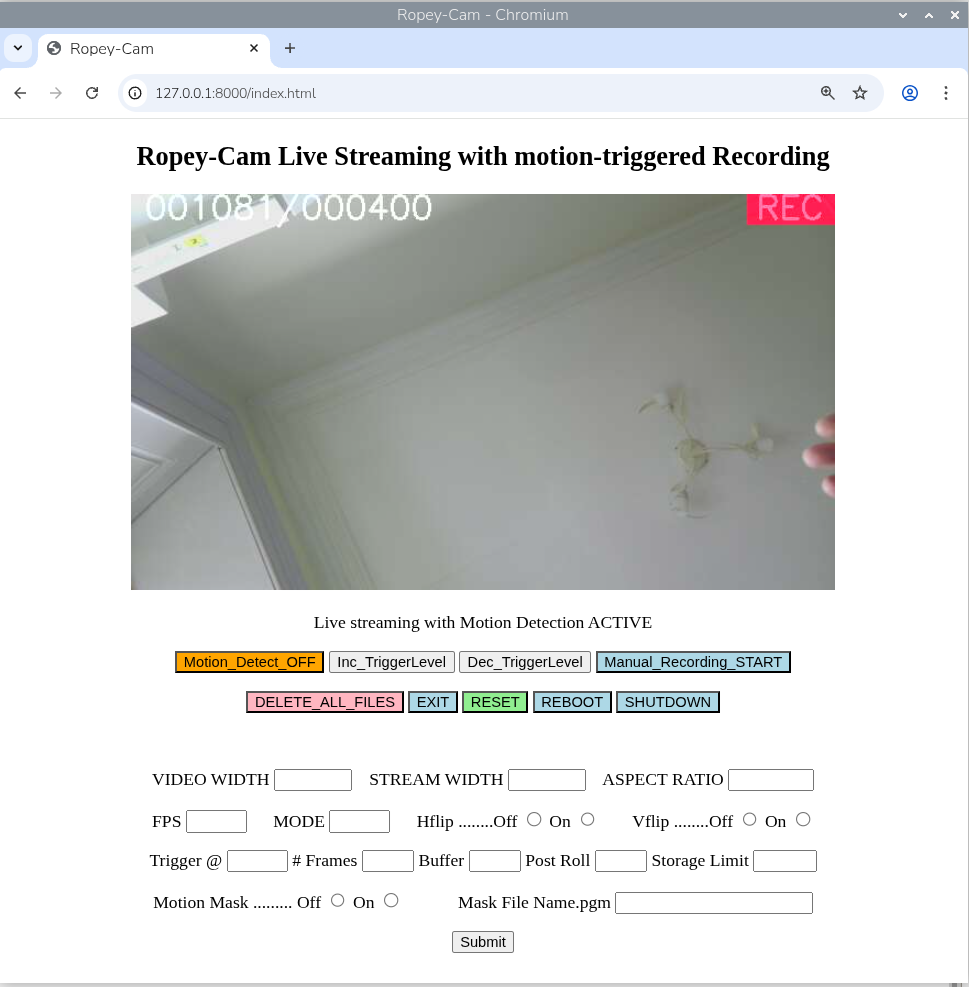
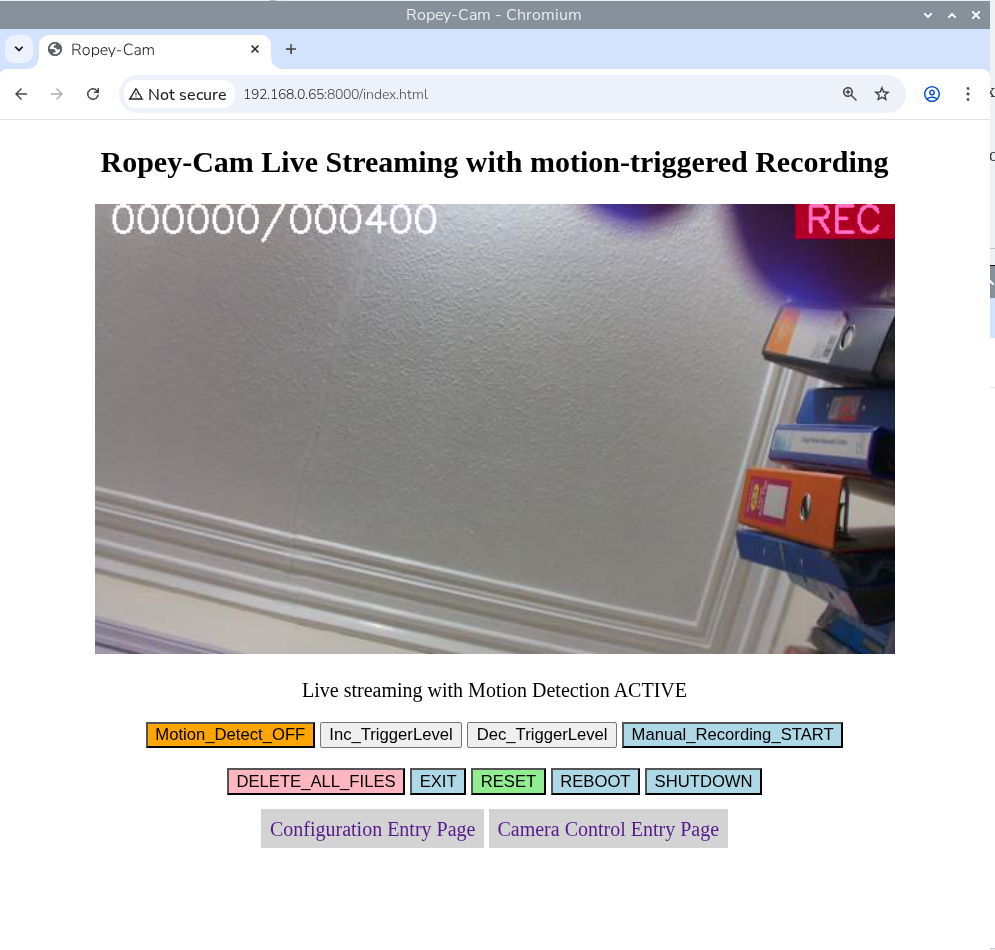
Update README and docs to reflect new controls page and changed 'home' page

diff --git a/docs/general_notes.md b/docs/general_notes.md
@@ -1,7 +1,7 @@
 ## General notes to help modify the application for specific uses.
 
 ### Compatibility with Raspberry Pi models and cameras.
-With the exception of the original single core CPU boards, i.e.the Raspberry Pi Model A/B and the Pi Zero, all models from Zero 2W through Pi 2 to Pi 5 have sufficient resources to run Ropey-Cam (R-C). Best results at the highest resolutions and framerates will need Pi4 and above.
+With the exception of the original single core CPU boards, i.e.the Raspberry Pi Model A/B and the Pi Zero, (which struggle with framerate), all models from Zero 2W through Pi 2 to Pi 5 have sufficient resources to run Ropey-Cam (R-C). Best results at the highest resolutions and framerates will be achieved with a Pi4 and above. Although users are encouraged to experiment with the settings to optimise for their particular hardware and use-case.
 
 As R-C is based on Picamera2/libcamera it should be compatible with all Raspberry Pi camera modules V1, V2, V3, HQ and GS, any third party versions of these, and any colour camera modules that have supported drivers in the Raspberry Pi kernel eg IMX290 IMX462. 
 
@@ -14,14 +14,19 @@ Full HD 1920x1080 at 30 fps for the recorded video is best with Pi 4 and above, 
  
 In 4:3 (1.333) aspect ratio the max recommended VIDEO WIDTH is 1600 pixels giving a 1600x1200 frame size.
 
+As the size of the streaming video frames also controls the size of the frames which go through the motion detection thread it is best to keep them at smaller sizes to limit the computational load. Again experimentation encouraged. One installation in use by the author records in 1920 pixel wide 20:9 format at 25 fps, with a 1152 wide motion detection / streaming frame size with no problems on a Pi 4. 
 
-## Description of configuration entry inputs
-----
+
+## Description of configuration entry page
  
-![Extract of screenshot showing configuration input section](config_entry_panel.png)
+![Screenshot showing configuration input section](config_entry_panel.png)
 
 ---
-When first run R-C will read in the configuration file ropey.ini and apply the values to the relevant application constants and variables. These values can be updated using the input fields, either with individual entries or in any combination followed by a press of the Submit button. 
+When first run R-C will read in the configuration file 'ropey.ini' and apply stored values to the relevant application constants and variables. These values can be updated using the input fields on this page, either with individual entries or in any combination followed by a press of the 
+> 'Submit to apply changes to internal config file' button. 
+ 
+At this point the in-memory config file has been updated, but the new configuration has not been applied. To apply the configuration changes R-C should be shutdown and restarted, which will force the loading and application of the new configuration.  This can be done with either the EXIT or REBOOT buttons, which have the same effect as those on the 'home' page.
+  
 ### Configuration Fields
 
 #### VIDEO WIDTH
@@ -38,7 +43,7 @@ those shown when queried with  `rpicam-hello --list-cameras`
 
 Typically MODE 0 will give a cropped and binned low resolution mode.
 
-MODE 1 will give:-
+The default MODE 1 will give:-
 
  a full-frame 2x2 binned 16:9 mode on HQ and V3 camera modules 
  
@@ -70,14 +75,38 @@ The default is 80% (0.8) A value closer to 1.0 may be useful with lower capacity
 
 ### Motion Mask
 
-To avoid triggering by the motion of irrelevant background portions of the scene, e.g branches blowing in the wind, a blanking motion mask can be applied or disabled with these boolean Off/On radio buttons. A description of the function of this mask and guidelines on how to generate one are in the [Motion Mask Generation](#generation) section below.
+To avoid triggering by the motion of irrelevant background portions of the scene, e.g branches blowing in the wind, a blanking motion mask can be applied with these boolean Off/On radio buttons. A description of the function of this mask and guidelines on how to generate one are in the [Motion Mask Generation](#generation) section below.
 
 ### Mask_File_Name.pgm  
 Enter the file name of the motion mask to be applied in this field. This should be the full file name with its associated .pgm file type, and it should be stored in the main Ropey-Cam directory. A blank `default_mask.pgm` file is supplied that matches the standard default stream size. If you choose to use a different stream size it is essential to generate a new mask that matches the stream array size.
 
     
 ## Configuration storage
-Configuration changes are stored internally after being submitted or entered, but are not applied 'on-the-fly'. The changes are written to the configuration ropey.ini file on EXIT/SHUTDOWN or REBOOT, and will take effect when the file is read on the next startup.
+It's worth repeating that the configuration changes are stored internally after being submitted or entered, but are not applied 'on-the-fly'. The changes are written to the configuration ropey.ini file on EXIT/SHUTDOWN or REBOOT, and will take effect when the file is read on the next startup.
+
+## Controls Entry Page
+
+![Screenshot showing configuration input section](controls_entry_page.png)
+
+This page allows changes to made to the camera controls, rather than the configuration, and these can be applied 'on-the-fly'. The changes are also stored in the configuration file, to persist and be re-applied on next startup.
+
+See the [Picamera2 Manual](https://pip.raspberrypi.com/documents/RP-008156-DS) for descriptions of the controls, their options and effects.
+
+### The controls can be divided into four sections.
+The first being the straightforward, Brightness, Contrast and Saturation fields which are pre-populated with the current control values.
+
+The second section has the controls influencing the camera's AutoExposure (Ae) Image Processing Algorithm.
+
+The third section has the Auto White Balance  (Awb) controls.  If Awb is disabled then Red and Blue Colour Gains can be manually applied here.
+
+And finally the Auto Focus (Af) group. The Af settings will only apply if the camera module being used supports Af, eg the official RPi V3 IMX708.
+
+If Af is supported, and depending on which AfMode (Manual / Auto / Continuous) is selected, then extra controls will be available in the 'home' page screen to manually control the focus, in steps of 0.5 dioptre, or to trigger an autofocus cycle.
+
+
+
+## Timestamps
+The recorded video files have a date and time stamp embedded in the frame data. The time includes a millisecond record and is useful for checking for dropped frames.  By single-stepping through the recorded files the millisecond counter should advance by ~ 1000 / FRAMES_PER_SECOND each frame. A jump between frames of more than this would indicated dropped frames in the encoded video file.  Playing back the files using mpv media player, rather than the default vlc, can be useful with it's more flexible forward/backward single stepping and easier access to the video properties information.  
 
 <a id="generation"></a>
 ## Motion Mask Generation
@@ -86,7 +115,7 @@ The motion mask is a simple binary black/white .pgm image that, when converted t
 
 There are many ways the masks could be generated but a suggested method is outlined below.
 
-### Use .jpg snapshots as template
+### Use .jpg snapshots as baseline
 
 >Once the Stream size has been set to your chosen size, trigger some motion that will create a .jpg snapshot.
 
@@ -121,12 +150,14 @@ Select the ON Radio Button in the Motion Mask field and Enter the full Mask Name
 
 EXIT or REBOOT and the Mask will be applied on restart.
 
-### To confirm activation
+### To comfirm activation
 A check of the ropey.ini file should confirm the presence of the apply_motion_mask as True and the File Name should be present.
 
 Create some motion in the scene area corresponding to the black area(s) of the mask and check that the motion score in the top left of the streamed image does not respond and no recording is initiated.
 
  
 
-## Timestamps
-The recorded video files have a date and time stamp embedded in the frame data. The time includes a millisecond record and is useful for checking for dropped frames.  By single-stepping through the recorded files the millisecond counter should advance by ~ 1000 / FRAMES_PER_SECOND each frame. A jump between frames of more than this would indicated dropped frames in the encoded video file.  Playing back the files using mpv media player, rather than the default vlc, can be useful with it's more flexible forward/backward single stepping and easier access to the video properties information. 
+
+ 
+
+

diff --git a/README.md b/README.md
@@ -1,10 +1,10 @@
 ![ropey title](./Ropey-Cam.png)
 
-### Ropey-Cam is a Python-based surveillance camera system, designed for Raspberry Pi single-board computers with attached camera modules. The system provides real-time, low-latency, MJPEG video streaming to web browsers, while simultaneously monitoring for motion, and recording high-quality H.264/.mp4 video clips when motion is detected.
+### Ropey-Cam is a self-contained Python-based surveillance / security / wildlife / camera control system, designed for Raspberry Pi single-board computers with attached camera modules. The system provides real-time, low-latency, MJPEG video streaming to web browsers, while simultaneously monitoring for motion, and recording high-quality H.264/.mp4 video clips when motion is detected, while also supporting remote control of the camera from the browser.
 
-As a long term user of the comprehensive [RPi_Cam_Web_Interface](https://github.com/silvanmelchior/RPi_Cam_Web_Interface) with various RPi cameras (V1,V2 and HQ), it was frustrating not being able to use third party cameras e.g IMX462, nor any of the later RPi camera modules with RCWI. Unable to find any suitable  libcamera/Picamera2 based alternatives, and as a learning exercise, work started on this basic -*very basic*- alternative.
+As a long term user of the comprehensive [RPi_Cam_Web_Interface](https://github.com/silvanmelchior/RPi_Cam_Web_Interface) with various RPi cameras (V1,V2 and HQ), it was frustrating not being able to use third party cameras e.g IMX462, nor any of the later RPi camera modules with RCWI. Unable to find any suitable libcamera/Picamera2 based alternatives, and as a learning exercise, work started on this basic -*very basic*- alternative. As a pure Python application it should be relatively easy to access for those keen to modify and extend it for their own use-case. 
 
-For those looking for more comprehensive features, the very fully featured [raspi-cam-srv](https://github.com/signag/raspi-cam-srv) is recommended. 
+For those looking for more comprehensive features, the very fully featured [raspi-cam-srv](https://github.com/signag/raspi-cam-srv) is recommended.  
 
 "Ropey-Cam" reflects its construction methodology: it is assembled from code snippets and examples from the Picamera2 repository, with minimal Python complexity, and uses a multi-threaded architecture to handle concurrent operations. In it's basic form, when installed on a RPi with the standard desktop OS, the only additional dependency is OpenCV.
 
@@ -102,7 +102,7 @@ The button text describes the action that will be taken when the button is press
 
 >All four of the system control buttons change colour to indicate a 'primed' state after the first press. 
 
-See the General Notes linked at the bottom of the page for a description of the configuration input fields below the main control buttons.
+See the General Notes linked at the bottom of the page for a description of the configuration entry pages and camera control pages accessed via the two link blocks below the main control buttons.
 
 
 ### Pre-deployment configuration
@@ -129,18 +129,18 @@ Other recommended steps before deploying are:-
 
 ### Performance
 
-As an example the screenshot below is taken from a Pi5, accessing Ropey-Cam running on a Pi3 Model B V1.2, with both machines connected via Wi-Fi to a home network.
+As an example the screenshot below is taken from a Pi5, accessing Ropey-Cam running on a Pi3A+, with both machines connected via Wi-Fi to a home network.
 
 
 ![Test screenshot](latency_screenshot.png)
 
 In the upper left is an ssh session running htop on the remote Pi3 during an active recording, indicating useful spare CPU and memory capacity.
 
-In the lower left the Thunar file manager is accessing the Videos subdirectory on the remote Pi3 via the network samba share. (Using a separate file manager from the inbuilt pcmanfm allows the thumbnail icon sizes to be increased without affecting the desktop).
+In the lower left the Thunar file manager is accessing the Videos subdirectory on the remote Pi3A+ via the network samba share. (Using a separate file manager from the inbuilt pcmanfm allows the thumbnail icon sizes to be increased without affecting the desktop).
 
 And on the right is the browser, showing an image from the camera while it is being pointed at the browsing computer's screen - with a stopwatch in the foreground.
 
-The difference between the stopwatch time in the foreground, and the background - earlier - image of the stopwatch that has been captured, processed, passed through the network to the browser and displayed, is a measure of the system latency.  The latency of 200ms is in the top end of the range of the values seen in this particular configuration, which were typically in the 150 to 200 ms range. 
+The difference between the stopwatch time in the foreground, and the background - earlier - image of the stopwatch that has been captured, processed, passed through the network and rendered by the browser, is a measure of the system latency.  The latency of 170ms is in the mid end of the range of the values seen in this particular configuration, which were typically in the 150 to 200 ms range. 
 
 ### Acknowledgements 
 

diff --git a/docs/lite.md b/docs/lite.md
@@ -41,10 +41,3 @@ Or, to avoid the console and error messages filling up the nohup output log :-
 `nohup ./Ropey-Cam.py >/dev/null 2>&1`
 
 
-## Resources
-
-A screenshot from a Pi5 browser accessing Ropey-Cam.py running on  Pi3A+,  with two ssh sessions attached, one with htop running and a second running Ropey-Cam, along with a samba share connected  - shows markedly lower memory usage than the 'Desktop' version running on a Pi3B that was shown in the main page.
-
-The latency indicated in the screenshot in this case was ~200ms, while the range seen over a number of captures was typically 130-220ms.
-
-![Lite Installation screenshot from a Pi400](lite_screenshot.png "Screenshot")